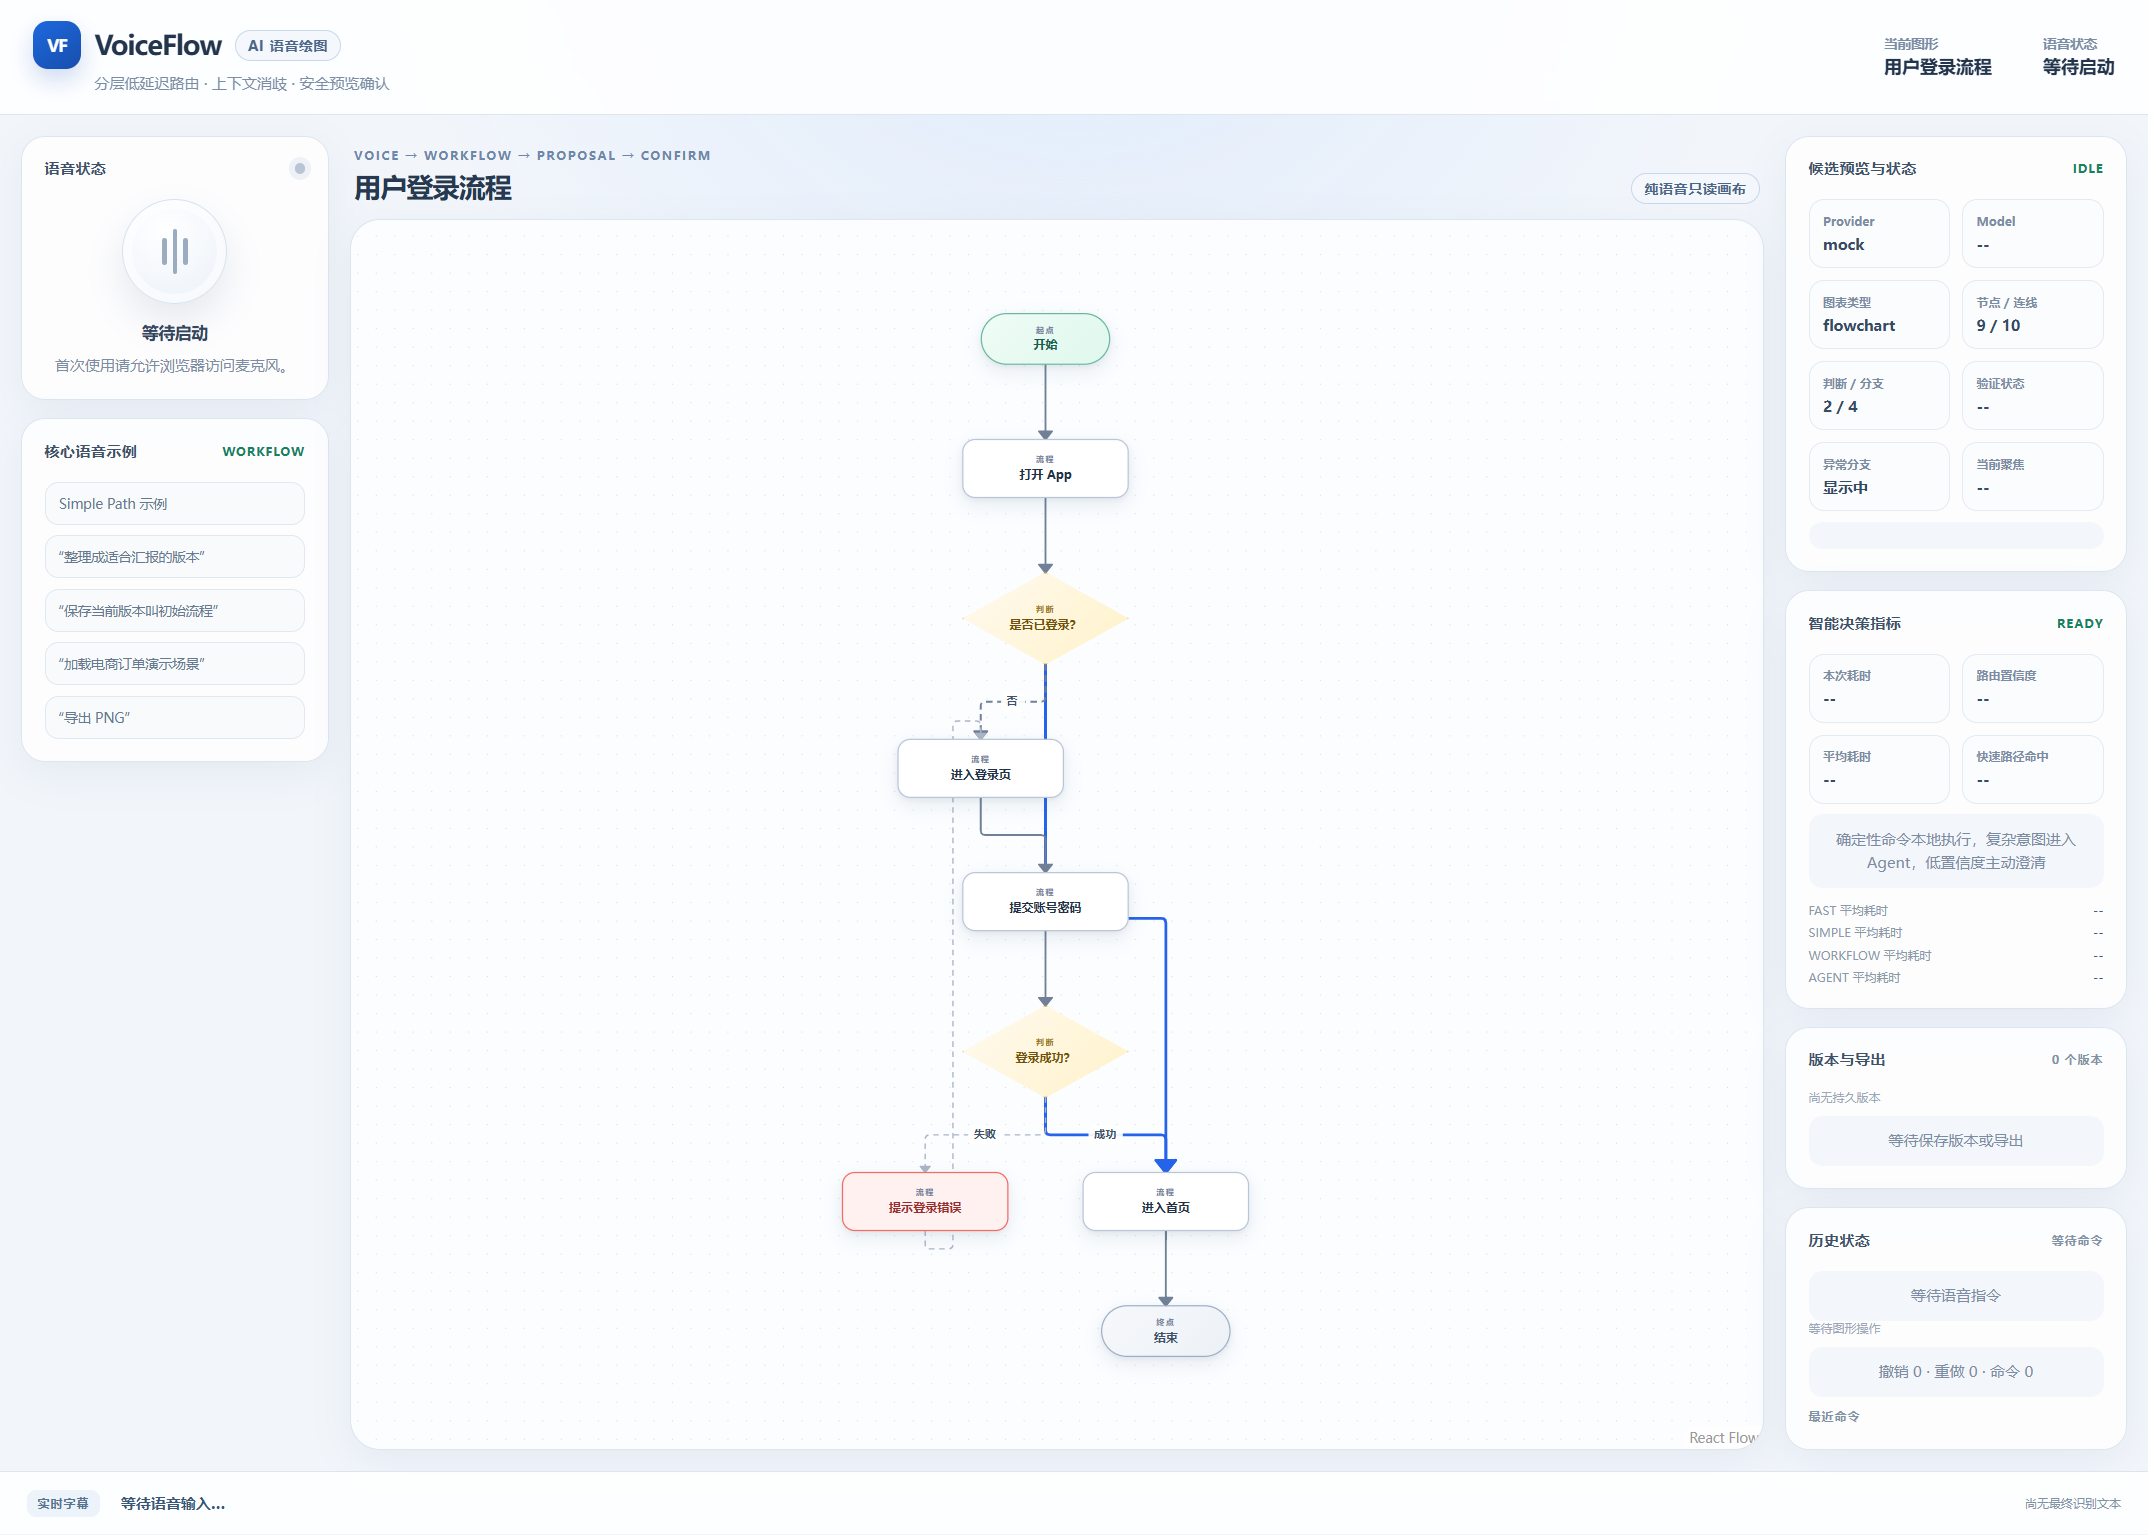
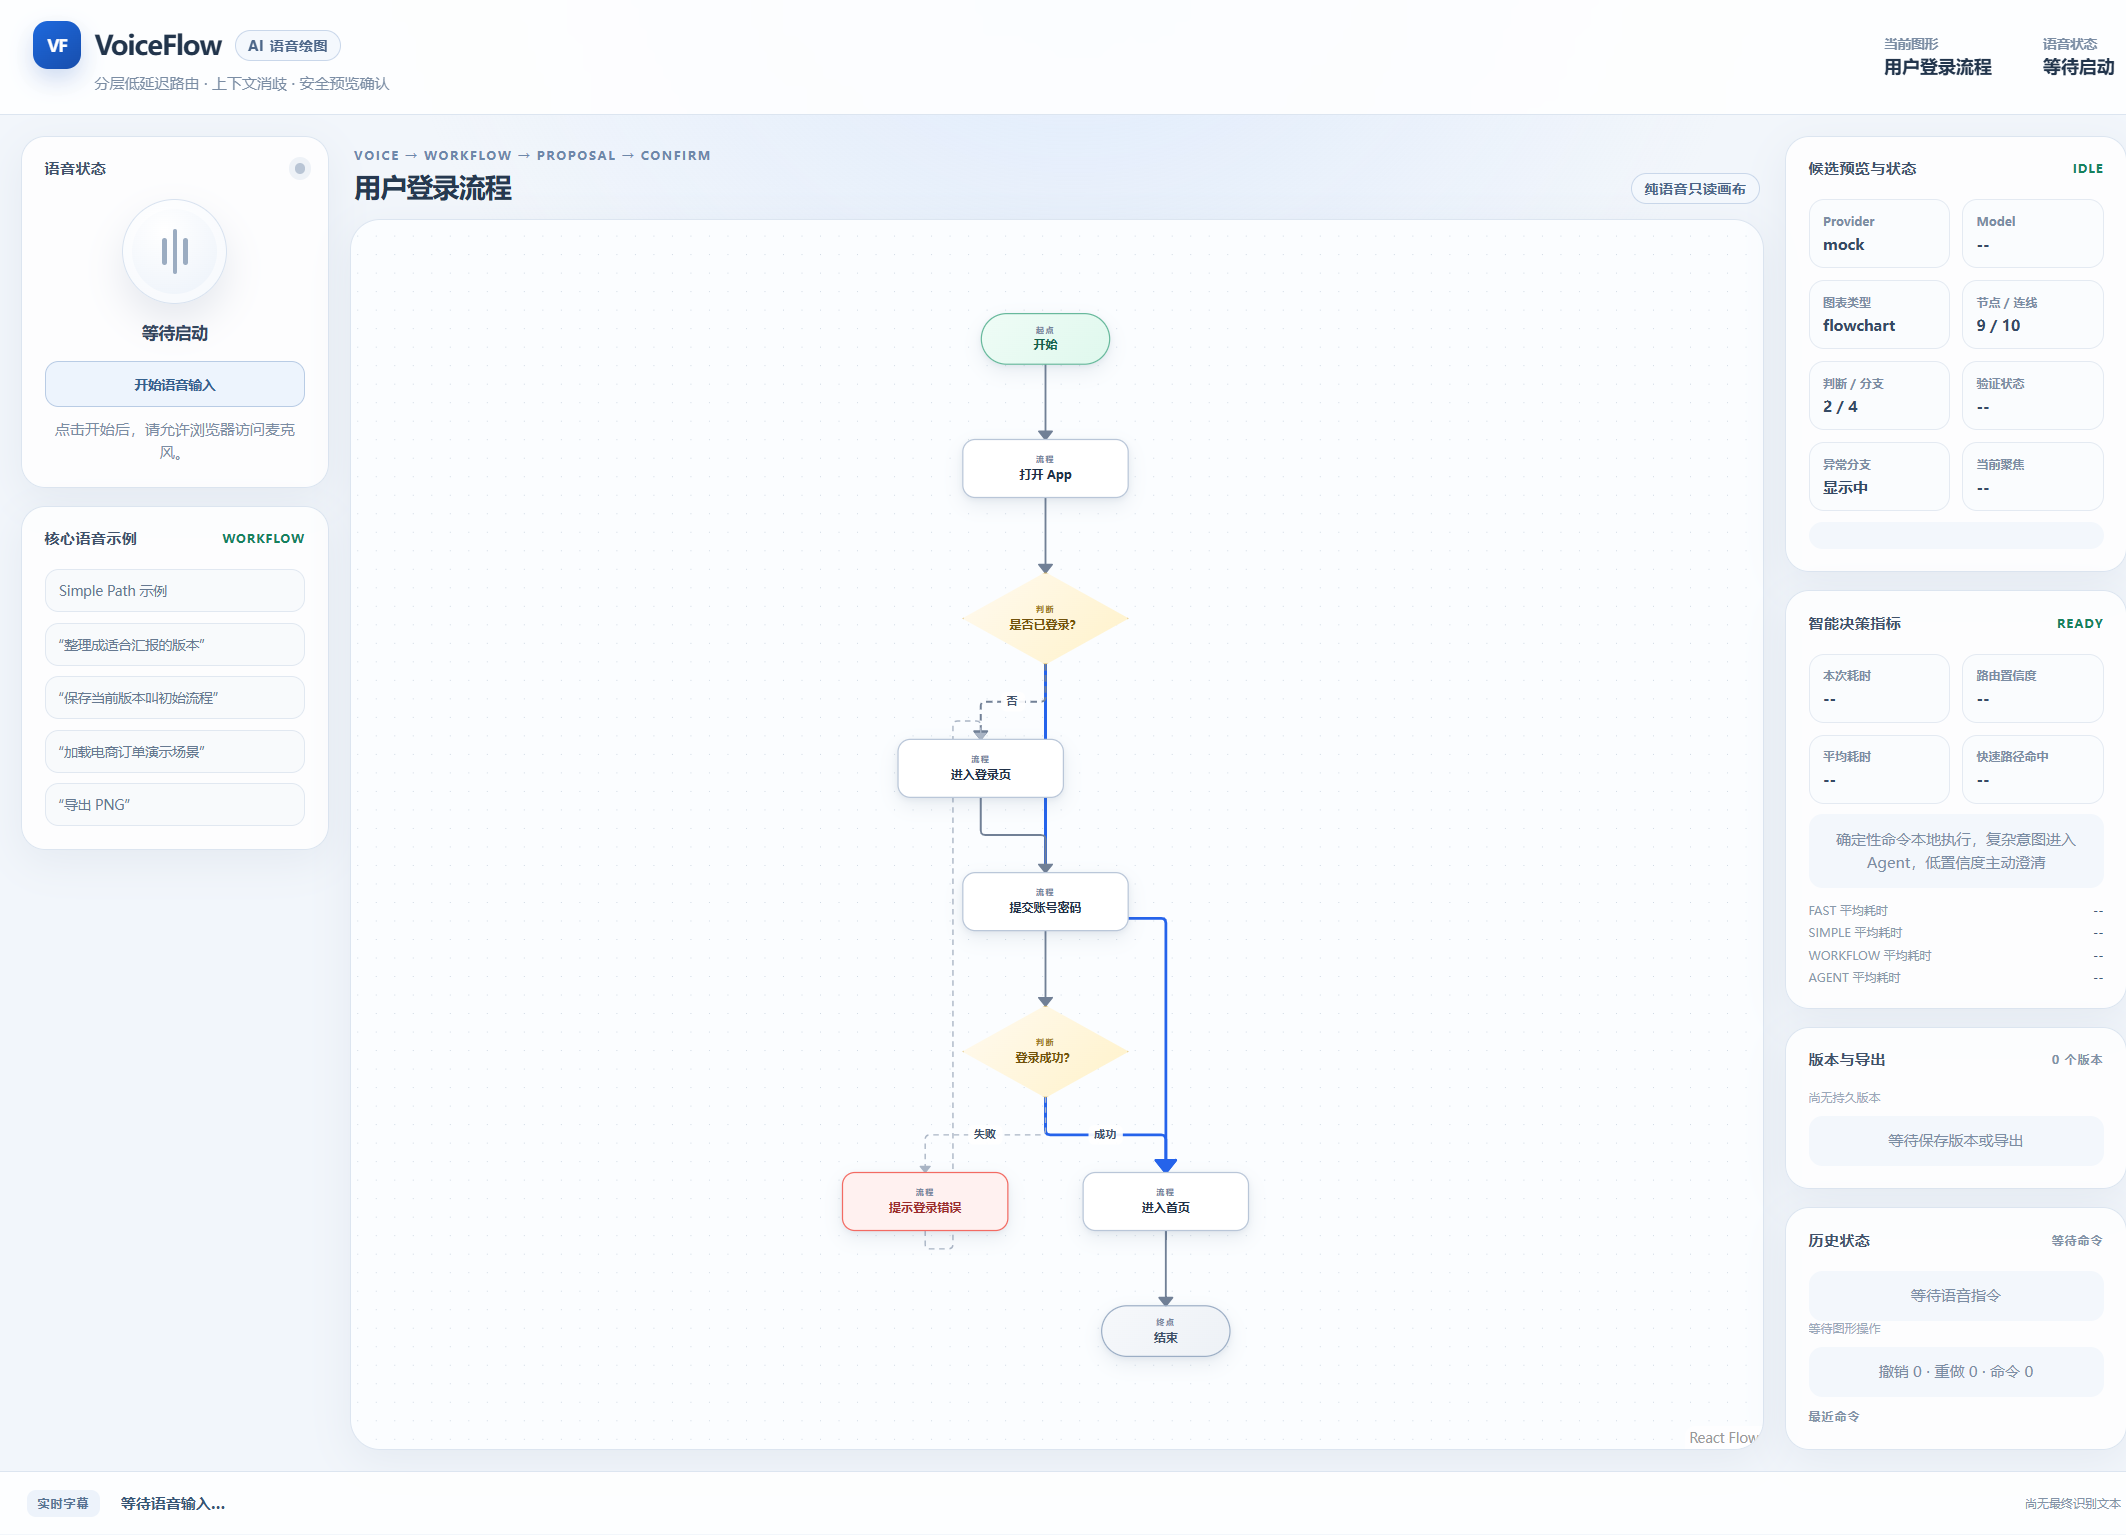
feat: add explicit microphone recording controls

diff --git a/src/app/App.module.css b/src/app/App.module.css
@@ -219,6 +219,40 @@
   text-align: center;
 }
 
+.recordingButton {
+  display: block;
+  width: 100%;
+  margin: 12px 0 0;
+  padding: 9px 10px;
+  border: 1px solid #b9cce5;
+  border-radius: 9px;
+  background: #edf4fd;
+  color: #35618f;
+  font: inherit;
+  font-size: 9px;
+  font-weight: 850;
+  cursor: pointer;
+}
+
+.recordingButton:hover {
+  background: #e2edfb;
+}
+
+.recordingButton:focus-visible {
+  outline: 2px solid #3979ca;
+  outline-offset: 2px;
+}
+
+.recordingButtonActive {
+  border-color: #e3aaa5;
+  background: #fff0ef;
+  color: #a53c35;
+}
+
+.recordingButtonActive:hover {
+  background: #fde5e3;
+}
+
 .panelCard > p {
   margin: 7px 0 0;
   color: var(--text-muted);

diff --git a/src/app/App.tsx b/src/app/App.tsx
@@ -1,4 +1,4 @@
-import { lazy, Suspense, useEffect, useMemo } from 'react';
+import { lazy, Suspense, useEffect, useMemo, useState } from 'react';
 
 import { CanvasErrorBoundary } from '../components/common/CanvasErrorBoundary';
 import { VisualClarificationCard } from '../components/common/VisualClarificationCard';
@@ -67,6 +67,7 @@ export function App() {
   const focusedNodeId = useCanvasViewStore((state) => state.focusedNodeId);
   const selectedNodeId = useDiagramStore((state) => state.selectedNodeId);
   const controller = useMemo(() => createBrowserVoiceController(), []);
+  const [recordingEnabled, setRecordingEnabled] = useState(false);
   const latestExecution = executionLog[0];
   const averageDuration = executionLog.length
     ? Math.round(
@@ -97,7 +98,6 @@ export function App() {
   );
 
   useEffect(() => {
-    controller.startListening();
     return () => controller.stopListening();
   }, [controller]);
 
@@ -150,11 +150,30 @@ export function App() {
               <span />
             </div>
             <strong>{STATUS_LABELS[voiceStatus]}</strong>
+            <button
+              className={`${styles.recordingButton} ${
+                recordingEnabled ? styles.recordingButtonActive : ''
+              }`}
+              type="button"
+              aria-pressed={recordingEnabled}
+              onClick={() => {
+                if (recordingEnabled) {
+                  controller.stopListening();
+                } else {
+                  controller.startListening();
+                }
+                setRecordingEnabled((enabled) => !enabled);
+              }}
+            >
+              {recordingEnabled ? '停止语音输入' : '开始语音输入'}
+            </button>
             <p>
               {voiceError ??
                 (commandPaused
                   ? '仅响应继续、取消和确认'
-                  : '首次使用请允许浏览器访问麦克风。')}
+                  : recordingEnabled
+                    ? '正在持续监听，完成后请停止语音输入。'
+                    : '点击开始后，请允许浏览器访问麦克风。')}
             </p>
           </section>
           <section className={styles.panelCard}>

diff --git a/src/tests/aiProviders.test.ts b/src/tests/aiProviders.test.ts
@@ -97,4 +97,28 @@ describe('AI providers', () => {
       }),
     ).rejects.toThrow('HTTP 500');
   });
+
+  it('calls the browser fetch function without an illegal receiver binding', async () => {
+    const browserFetch = vi.fn().mockResolvedValue({
+      ok: true,
+      json: async () => ({
+        choices: [{ message: { content: '{"kind":"clarification","question":"补充"}' } }],
+      }),
+    });
+    vi.stubGlobal('fetch', browserFetch);
+    const provider = new OpenAiCompatibleProvider({
+      baseUrl: 'https://api.openai.com/v1',
+      apiKey: 'secret',
+      model: 'gpt-4.1-mini',
+    });
+
+    await provider.complete({
+      intent: 'create_flowchart',
+      originalCommand: '画流程图',
+      conversation: [],
+    });
+
+    expect(browserFetch).toHaveBeenCalledOnce();
+    vi.unstubAllGlobals();
+  });
 });

diff --git a/src/tests/App.test.tsx b/src/tests/App.test.tsx
@@ -1,4 +1,5 @@
 import { render, screen } from '@testing-library/react';
+import userEvent from '@testing-library/user-event';
 import { afterEach, beforeEach, describe, expect, it } from 'vitest';
 
 import { App } from '../app/App';
@@ -30,7 +31,26 @@ describe('competition app', () => {
     expect(screen.getByText('历史状态')).toBeInTheDocument();
     expect(screen.getByText('最近命令')).toBeInTheDocument();
     expect(screen.getByText('实时字幕')).toBeInTheDocument();
-    expect(screen.getAllByText('浏览器不支持')).toHaveLength(2);
+    expect(screen.getByRole('button', { name: '开始语音输入' })).toBeInTheDocument();
+    expect(screen.getAllByText('等待启动')).toHaveLength(2);
+  });
+
+  it('starts and stops microphone input explicitly', async () => {
+    const user = userEvent.setup();
+    render(<App />);
+
+    const start = screen.getByRole('button', { name: '开始语音输入' });
+    await user.click(start);
+    expect(screen.getByRole('button', { name: '停止语音输入' })).toHaveAttribute(
+      'aria-pressed',
+      'true',
+    );
+
+    await user.click(screen.getByRole('button', { name: '停止语音输入' }));
+    expect(screen.getByRole('button', { name: '开始语音输入' })).toHaveAttribute(
+      'aria-pressed',
+      'false',
+    );
   });
 
   it('shows pending clarification candidates', () => {

diff --git a/src/tests/voiceController.test.ts b/src/tests/voiceController.test.ts
@@ -91,6 +91,20 @@ describe('voiceController integration', () => {
     });
   });
 
+  it('ignores recognition results that arrive after listening stops', async () => {
+    const provider = new MockVoiceProvider();
+    const controller = createTestController(provider);
+
+    controller.startListening();
+    controller.stopListening();
+    provider.emitFinal('横向布局');
+    await Promise.resolve();
+
+    expect(useVoiceStore.getState().status).toBe('idle');
+    expect(useDiagramStore.getState().diagram.layout.direction).toBe('top_down');
+    expect(useCommandStore.getState().executionLog).toHaveLength(0);
+  });
+
   it('executes Simple Path commands and handles clarification answers', async () => {
     const provider = new MockVoiceProvider();
     const controller = createTestController(provider);

diff --git a/src/voice/voiceController.ts b/src/voice/voiceController.ts
@@ -59,6 +59,7 @@ export function createVoiceController({
           if (!shouldListen) useVoiceStore.getState().setStatus('idle');
         },
         onResult: ({ text, isFinal }) => {
+          if (!shouldListen) return;
           if (isFinal) {
             useVoiceStore.getState().setFinalTranscript(text);
             void controller.handleFinalTranscript(text);
@@ -257,7 +258,9 @@ export function createVoiceController({
         .addExecutionLog(createExecutionLog(route, result, startedAt));
       const voice = useVoiceStore.getState();
       if (voice.status !== 'speaking') {
-        voice.setStatus(voice.commandPaused ? 'paused' : 'listening');
+        voice.setStatus(
+          shouldListen ? (voice.commandPaused ? 'paused' : 'listening') : 'idle',
+        );
       }
     },
     pauseForFeedback() {

diff --git a/src/commands/agent/aiProviders.ts b/src/commands/agent/aiProviders.ts
@@ -137,7 +137,7 @@ export class OpenAiCompatibleProvider implements AiProvider {
     },
   ) {
     this.model = config.model;
-    this.fetchImpl = config.fetchImpl ?? fetch;
+    this.fetchImpl = config.fetchImpl ?? ((...args) => fetch(...args));
   }
 
   async complete(request: AgentRequest, options?: { signal?: AbortSignal }) {

diff --git a/DEMO_SCRIPT.md b/DEMO_SCRIPT.md
@@ -4,7 +4,7 @@
 
 1. 在 `.env.local` 设置 `VITE_AI_MODE=mock`，重启开发服务器。
 2. 使用桌面版 Chrome 或 Edge，提前允许麦克风权限。
-3. 刷新页面，确认初始图为“用户登录流程”，语音状态为“正在聆听”。
+3. 刷新页面，确认初始图为“用户登录流程”，点击“开始语音输入”并允许麦克风权限。
 4. 全程不使用鼠标、键盘或触摸编辑画布。
 
 ## 录制流程
@@ -55,6 +55,7 @@
 > VoiceFlow 让确定性命令快速执行，让不确定语言主动澄清，让复杂 AI 修改先预览再确认，在纯语音场景中同时兼顾速度、容错和安全。
 
 最后展示智能决策指标、版本记录和完整画布。
+录制结束后点击“停止语音输入”关闭麦克风监听。
 
 ## 录制失败备用
 

diff --git a/.agentdocs/frontend/architecture.md b/.agentdocs/frontend/architecture.md
@@ -31,6 +31,7 @@ Web Speech API
 - Fast Path 常用命令不得调用 AI；命令执行日志是延迟指标的唯一数据来源。
 - 语义纠错使用三级置信度策略，待确认纠错必须优先于 Proposal 确认处理。
 - 消歧候选可以视觉化展示，但不得增加鼠标或键盘编辑入口。
+- 麦克风监听默认关闭，只能由用户通过“开始语音输入 / 停止语音输入”按钮显式控制；停止后的残余识别结果不得执行。
 - 新增或修改行为必须补充对应 Vitest 测试。
 - 单个代码文件不超过 1000 行，优先复用现有模块。
 